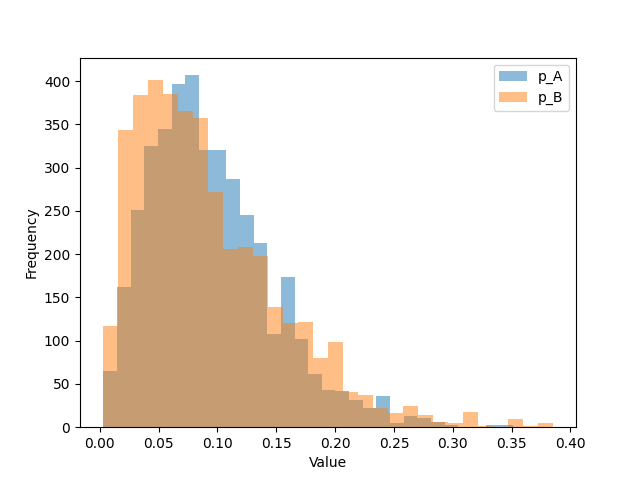
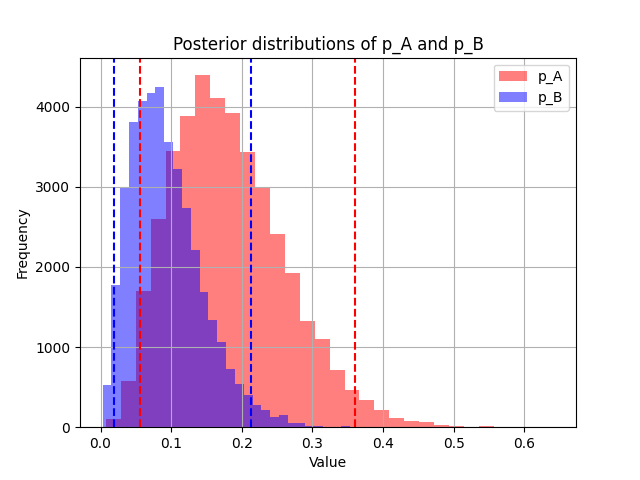
Make some modifications to histogram

diff --git a/app/templates/results.html b/app/templates/results.html
@@ -13,6 +13,9 @@
     {% else %}
         <p>Error: No histogram to display.</p>
     {% endif %}
-    <a href="{{ url_for('home') }}">Back to home</a>
+    <br> </br> 
+    <form action = "{{ url_for('home') }}"> 
+        <input type="submit" value="Back to Home">
+    </form>
 </body>
 </html>

diff --git a/app/bayesian.py b/app/bayesian.py
@@ -15,7 +15,7 @@ def perform_bayesian_analysis(data):
             p_B = pm.Beta('p_B', alpha=data['alphaB'], beta=data['betaB'])
             obs_A = pm.Binomial('obs_A', n=data['trialsA'], p=p_A, observed=data['successesA'])
             obs_B = pm.Binomial('obs_B', n=data['trialsB'], p=p_B, observed=data['successesB'])
-            trace = pm.sample(1000, tune=500, step=pm.Metropolis())
+            trace = pm.sample(10000, tune=500, step=pm.Metropolis())
 
         return {
             'p_A_samples': trace['p_A'].tolist(),
@@ -28,11 +28,18 @@ def perform_bayesian_analysis(data):
 def create_histogram(p_A_samples, p_B_samples):
     try:
         plt.figure()
-        plt.hist(p_A_samples, bins=30, alpha=0.5, label='p_A')
-        plt.hist(p_B_samples, bins=30, alpha=0.5, label='p_B')
+        plt.hist(p_A_samples, bins=30, alpha=0.5, label='p_A', color='red')
+        plt.hist(p_B_samples, bins=30, alpha=0.5, label='p_B', color='blue')
         plt.legend()
         plt.xlabel('Value')
         plt.ylabel('Frequency')
+        #add confidence interval lines
+        plt.axvline(x=np.percentile(p_A_samples, 2.5), color='red', linestyle='--')
+        plt.axvline(x=np.percentile(p_A_samples, 97.5), color='red', linestyle='--')
+        plt.axvline(x=np.percentile(p_B_samples, 2.5), color='blue', linestyle='--')
+        plt.axvline(x=np.percentile(p_B_samples, 97.5), color='blue', linestyle='--')
+        plt.title('Posterior distributions of p_A and p_B')
+        plt.grid(True)
 
         # Ensure the static directory exists
         static_dir = os.path.join(current_app.root_path, 'static')
